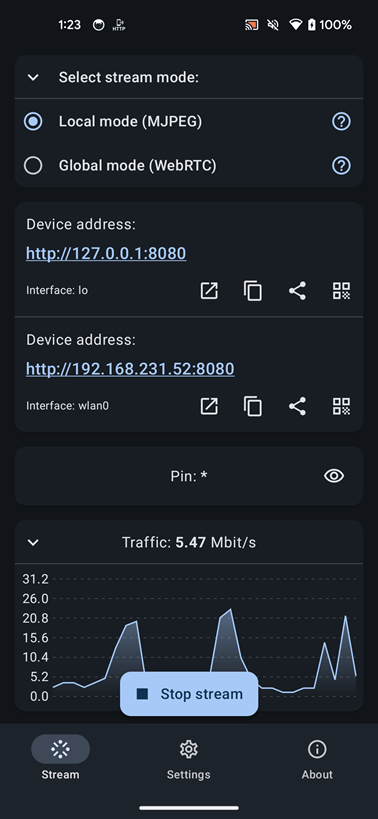
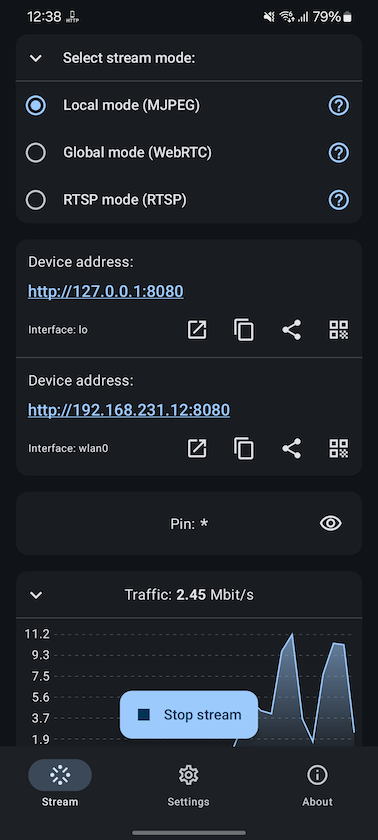
Readme update

diff --git a/README.md b/README.md
@@ -12,6 +12,7 @@ Versions from F-Droid are Ad-free and support only **Local mode (MJPEG)**.
  * [Stream modes](#stream-modes)
    + [Local mode (MJPEG)](#local-mode-mjpeg)
    + [Global mode (WebRTC)](#global-mode-webrtc)
+   + [RTSP mode](#rtsp-mode)
  * [Screenshots](#screenshots)
  * [Contribution](#contribution)
  * [Developer](#developed-by)
@@ -31,9 +32,9 @@ Your contribution is greatly appreciated!
 
 ## Stream modes
 
-ScreenStream offers two stream modes: **Global mode (WebRTC)** (in [Google Play Store](https://play.google.com/store/apps/details?id=info.dvkr.screenstream) version only) and **Local mode (MJPEG)**. Both modes aim to stream the Android device screen but function differently. They are independent of each other, with unique functionalities, restrictions, and customization options.
+ScreenStream offers two stream modes: **Global mode (WebRTC)** (in [Google Play Store](https://play.google.com/store/apps/details?id=info.dvkr.screenstream) version only), **Local mode (MJPEG)** and **RTSP mode**. All modes aim to stream the Android device screen but function differently. They are independent of each other, with unique functionalities, restrictions, and customization options.
 
-In both modes the number of clients is not directly limited, but it's important to keep in mind that each client consumes CPU resources and bandwidth for data transmission.
+In **Global (WebRTC)** and **Local (MJPEG)** modes the number of clients is not directly limited, but it's important to keep in mind that each client consumes CPU resources and bandwidth for data transmission.
 
 The application uses Android [MediaProjection](https://developer.android.com/reference/android/media/projection/MediaProjection) feature and requires Android 6.0 or higher.
 
@@ -88,10 +89,26 @@ The Global mode was introduced in app version 4 and offers the following functio
 > [!NOTE]
 > Global mode (WebRTC) only available in Google Play version
 
+### RTSP mode
+
+RTSP mode in ScreenStream streams your Android device screen to an external RTSP media server, providing compatibility with a wide range of standard RTSP clients.
+
+For optimal performance, a fast and stable network connection is recommended due to high traffic and low network delay requirements.
+
+- Powered by RTSP protocol.
+- Requires an RTSP-capable media server (tested with MediaMTX).
+- Supports both video (H.265, H.264, AV1) and audio (OPUS, AAC, G.711).
+- Can be protected by username/password.
+- Optional control channel encryption (RTSPS using TLS).
+- Compatible with WiFi, mobile networks, and both IPv4/IPv6.
+- Requires an RTSP client or player for viewing (tested with VLC).
+
 ## Screenshots
 
 ![](screenshots/screenshot_lm_d.png)&nbsp;![](screenshots/screenshot_lm_d_about.png)<br>
 ![](screenshots/screenshot_gm_d.png)&nbsp;![](screenshots/screenshot_gm_d_about.png)<br>
+![](screenshots/screenshot_rtsp_d.png)&nbsp;![](screenshots/screenshot_rtsp_d_about.png)<br>
+![](screenshots/screenshot_rtsp_d_video.png)&nbsp;![](screenshots/screenshot_rtsp_d_audio.png)<br>
 ![](screenshots/screenshot_settings_1_d.png)&nbsp;![](screenshots/screenshot_settings_1_l.png)<br>
 ![](screenshots/screenshot_settings_2_d.png)&nbsp;![](screenshots/screenshot_settings_2_l.png)<br>
 ![](screenshots/screenshot_settings_3_d.png)&nbsp;![](screenshots/screenshot_settings_3_l.png)<br>
@@ -105,6 +122,7 @@ To contribute with translation, kindly translate the following three files:
 1. https://github.com/dkrivoruchko/ScreenStream/blob/master/app/src/main/res/values/strings.xml
 1. https://github.com/dkrivoruchko/ScreenStream/blob/master/mjpeg/src/main/res/values/strings.xml
 1. https://github.com/dkrivoruchko/ScreenStream/blob/master/webrtc/src/main/res/values/strings.xml
+1. https://github.com/dkrivoruchko/ScreenStream/blob/master/rtsp/src/main/res/values/strings.xml
 
 Then, please, [make a pull request](https://help.github.com/en/articles/creating-a-pull-request) or send those translated files to the developer via e-mail <dkrivoruchko@gmail.com> as an attachment.
 
